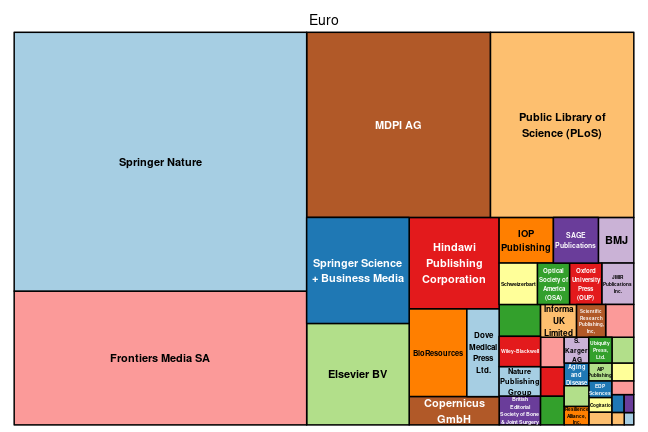
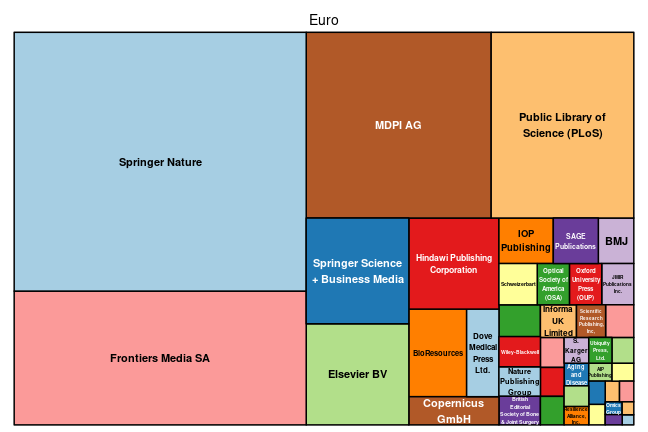
update: dresden apc data 2019

diff --git a/_posts/2019-09-04-dresden.md b/_posts/2019-09-04-dresden.md
@@ -21,14 +21,14 @@ Contact person is [Michael Wohlgemuth](mailto:openaccess@slub-dresden.de).
 
 
 
-The new dataset covers publication fees for 124 articles. Total expenditure amounts to 124 552€ and the average fee is 1 004€.
+The new dataset covers publication fees for 124 articles. Total expenditure amounts to 125 619€ and the average fee is 1 013€.
 
 The following table shows the payments the SLUB has made to publishers in 2019 up to now.
 
 
 |                                                           | Articles| Fees paid in EURO| Mean Fee paid|
 |:----------------------------------------------------------|--------:|-----------------:|-------------:|
-|MDPI AG                                                    |       73|             38918|           533|
+|MDPI AG                                                    |       73|             39984|           548|
 |Springer Nature                                            |       27|             43544|          1613|
 |Frontiers Media SA                                         |        9|             17136|          1904|
 |American Association for the Advancement of Science (AAAS) |        2|              3709|          1854|
